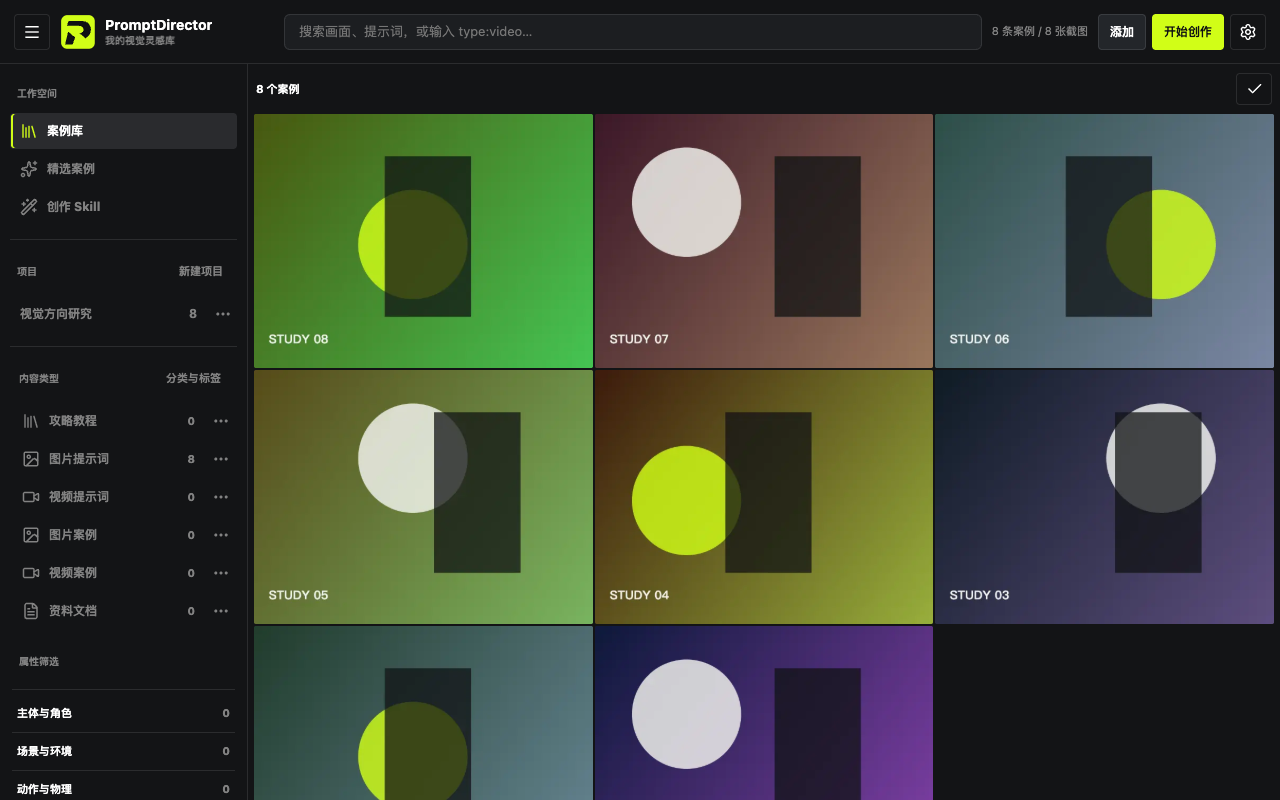
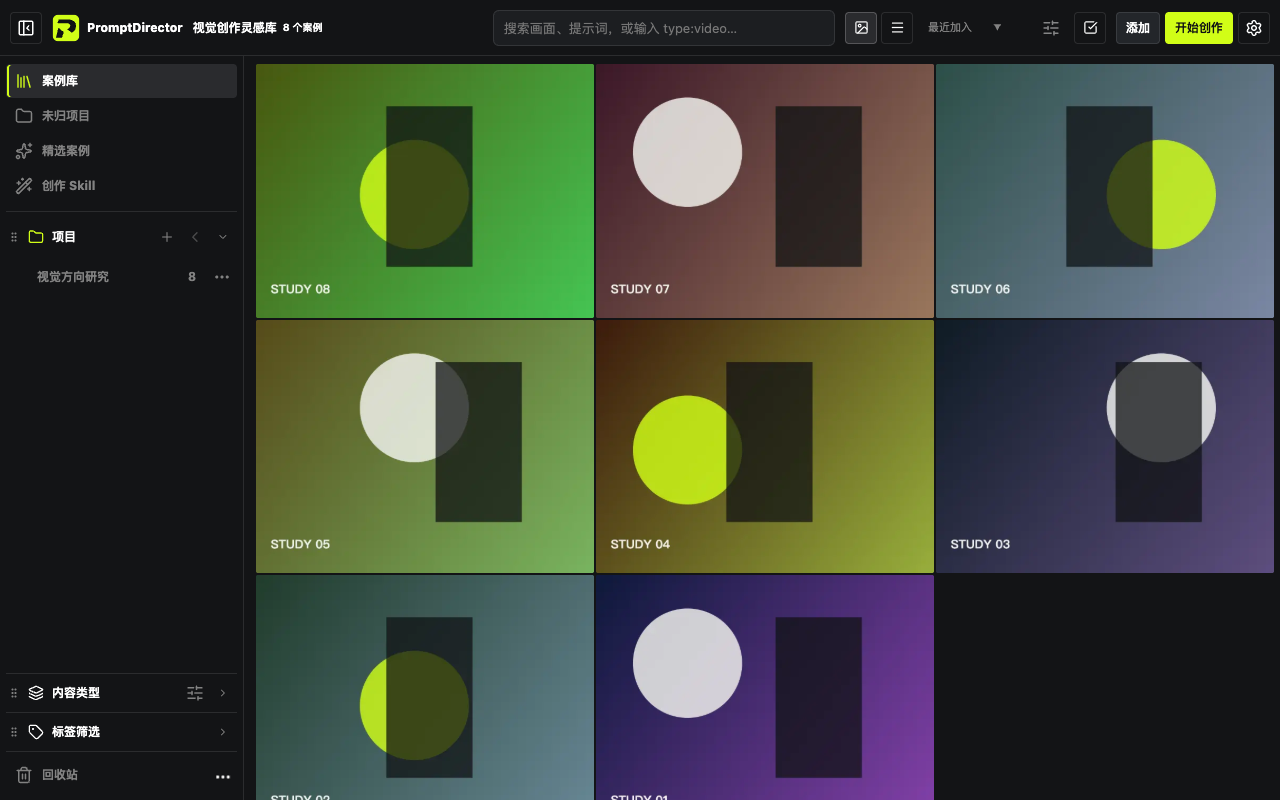
Align execution guidance and store screenshots with current workflows

diff --git a/extension/library.html b/extension/library.html
@@ -444,7 +444,7 @@
             <div class="rule-toolbar"><h3 id="composer-settings-form-heading-2" data-i18n="当前任务方法">当前任务方法</h3><button class="icon-button" title="恢复当前任务默认方法" aria-label="恢复当前任务默认方法" data-i18n-title="恢复当前任务默认方法" data-i18n-aria-label="恢复当前任务默认方法" id="restore-composer-task" type="button"><svg class="ui-icon" viewBox="0 0 24 24" aria-hidden="true" focusable="false"><use href="assets/ui-icons.svg#icon-refresh-cw"></use></svg></button><button class="icon-button" title="保存任务方法" aria-label="保存任务方法" data-i18n-title="保存任务方法" data-i18n-aria-label="保存任务方法" type="submit"><svg class="ui-icon" viewBox="0 0 24 24" aria-hidden="true" focusable="false"><use href="assets/ui-icons.svg#icon-save"></use></svg></button><span id="composer-task-save-state" class="rule-save-state" role="status"></span></div><label><textarea aria-labelledby="composer-settings-form-heading-2" id="composer-task-method" rows="10"></textarea></label>
             <p id="composer-method-migration" class="privacy-note"></p>
             <details class="composer-method-default"><summary data-i18n="查看当前任务默认方法">查看当前任务默认方法</summary><pre id="composer-method-default-text"></pre></details>
-            <details class="analysis-protocol"><summary data-i18n="轻量执行协议">轻量执行协议</summary><p data-i18n="第一阶段只判断任务、必要问题和本地检索；第二阶段按自然语言执行说明流式生成。规划缺少可选字段时会透明提示，并按原始要求继续。">第一阶段只判断任务、必要问题和本地检索；第二阶段按自然语言执行说明流式生成。规划缺少可选字段时会透明提示，并按原始要求继续。</p></details>
+            <details class="analysis-protocol"><summary data-i18n="执行方式">执行方式</summary><p data-i18n="文字任务直接处理当前请求，需要查询案例库时按需读取资料。生成图片或视频时，仅在所选服务需要时先整理提示词。">文字任务直接处理当前请求，需要查询案例库时按需读取资料。生成图片或视频时，仅在所选服务需要时先整理提示词。</p></details>
 
             <p id="composer-settings-status"></p>
             <details class="creative-experiment-settings">

diff --git a/extension/i18n.js b/extension/i18n.js
@@ -1680,8 +1680,8 @@ const EN = Object.freeze({
   "视频提示词": "Video prompt",
   "查看当前任务默认方法": "View the current task default",
   "轻量 Agent": "Lightweight Agent",
-  "轻量执行协议": "Lightweight execution protocol",
-  "第一阶段只判断任务、必要问题和本地检索；第二阶段按自然语言执行说明流式生成。规划缺少可选字段时会透明提示，并按原始要求继续。": "The first stage only routes the task, asks one necessary question, and requests local retrieval. The second stage streams the result from a natural-language instruction. Missing optional planning fields are shown transparently and generation continues from the original request.",
+  "执行方式": "Execution flow",
+  "文字任务直接处理当前请求，需要查询案例库时按需读取资料。生成图片或视频时，仅在所选服务需要时先整理提示词。": "Text tasks handle the current request directly and read library materials when a lookup is needed. Image or video generation prepares a prompt first only when required by the selected service.",
   "保存任务方法": "Save task method",
   "恢复当前任务默认方法": "Restore current task default",
   "这个任务仍有两个历史语言版本；当前会按输出语言继续使用，保存上方单一方法后完成合并。": "This task still has two historical language versions. The matching version remains active until you save one unified method above.",

diff --git a/tools/capture-store-screenshots.py b/tools/capture-store-screenshots.py
@@ -1,5 +1,6 @@
 from __future__ import annotations
 
+import json
 import sys
 from pathlib import Path
 
@@ -146,7 +147,23 @@ def main() -> None:
         skills.locator(".skill-case-toggle").nth(0).click()
         skills.locator(".skill-case-toggle").nth(2).click()
         skills.locator("#skill-goal").fill("提炼画面的主体层级、光线组织与色彩节奏")
+        skills.locator("#skill-goal").blur()
+        skills.evaluate("window.scrollTo(0, 0)")
         skills.screenshot(path=str(OUTPUT_DIR / "02-skills-1280x800.png"), full_page=False)
+
+        # Synthetic text keeps published screenshots independent of private data and paid services.
+        result = "# 主体、光线与色彩\n\n## 主体层级\n用明暗对比突出主体，让次要元素保持克制。\n\n## 光线组织\n先确定主光方向，再用轮廓光分离人物与背景。\n\n## 色彩节奏\n统一环境色，只保留少量强调色引导视线。"
+        def mock_extraction(route):
+            route.fulfill(status=200, content_type="text/event-stream", body=(
+                f'data: {json.dumps({"model": "deepseek-v4-flash", "choices": [{"delta": {"content": result}, "finish_reason": "stop"}]}, ensure_ascii=False)}\n\n'
+                "data: [DONE]\n\n"
+            ))
+        session.context.route("https://api.deepseek.com/**", mock_extraction)
+        skills.locator("#skill-generate").click()
+        skills.locator("#promptdirector-app-dialog").get_by_role("button", name="开始提炼").click()
+        expect(skills.locator("#skill-draft-step")).to_be_visible()
+        expect(skills.locator("#skill-draft-preview")).to_contain_text("主体、光线与色彩")
+        skills.screenshot(path=str(OUTPUT_DIR / "04-skill-result-1280x800.png"), full_page=False)
 
         composer = session.open_page("composer.html", wait_until="networkidle")
         expect(composer.locator("#composer-instruction")).to_be_visible()

diff --git a/store/DISTRIBUTION.md b/store/DISTRIBUTION.md
@@ -21,7 +21,8 @@ Public distribution formats and the permissions used by PromptDirector.
 - Screenshots, in order:
   1. `store/screenshots/01-library-1280x800.png`
   2. `store/screenshots/02-skills-1280x800.png`
-  3. `store/screenshots/03-composer-1280x800.png`
+  3. `store/screenshots/04-skill-result-1280x800.png`
+  4. `store/screenshots/03-composer-1280x800.png`
 
 ## Single purpose
 
